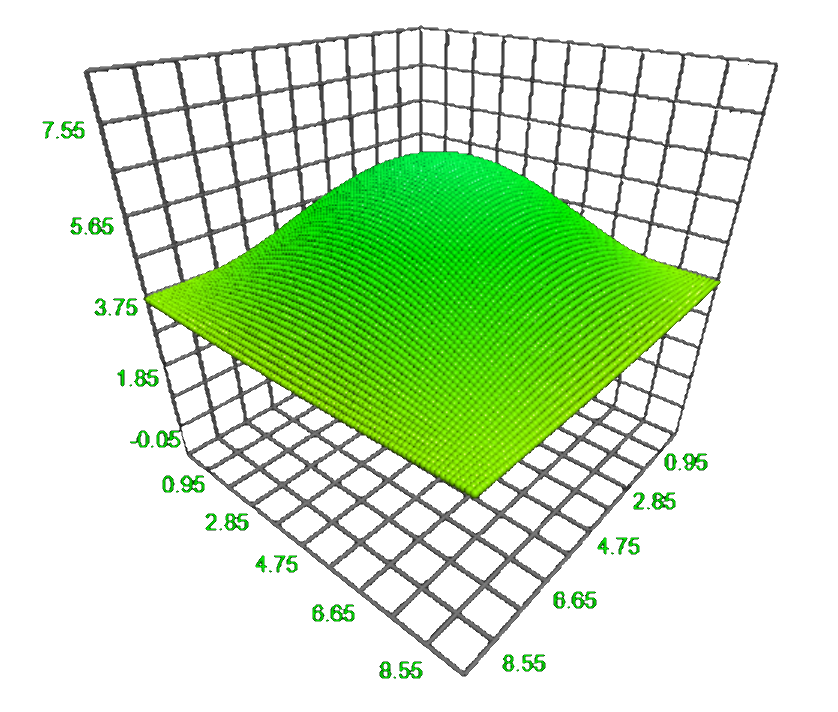
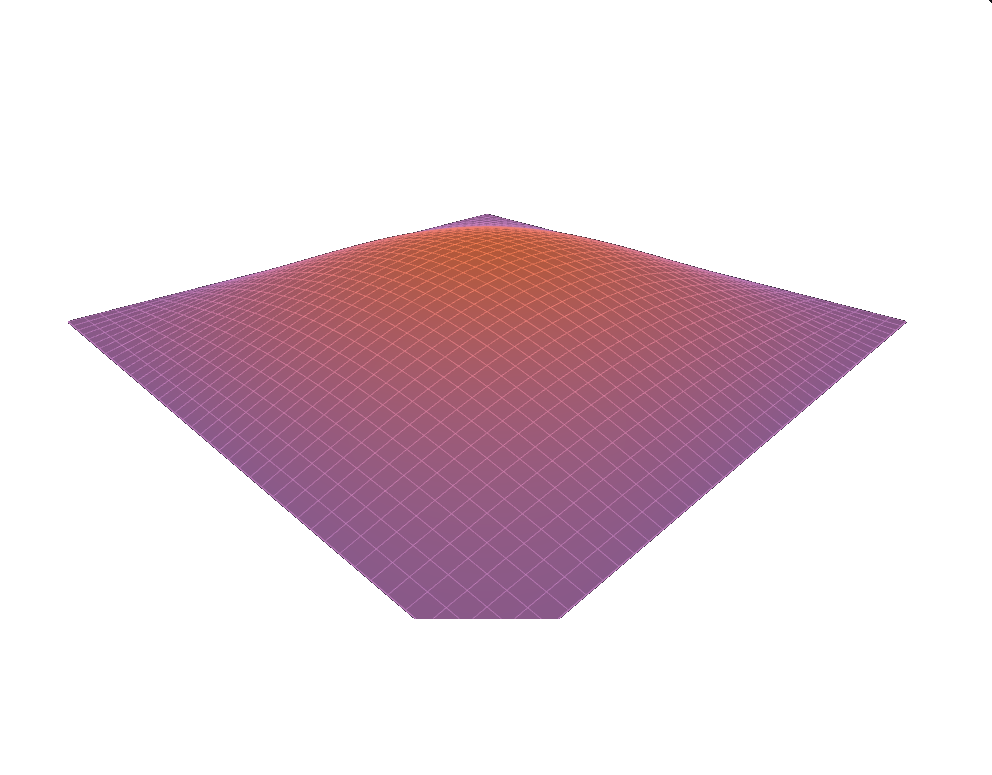
Update ♻

diff --git a/index.md b/index.md
@@ -1,3 +1,4 @@
+B
 <div style="display: flex;">
   <figure style="float: left; width: 25%; ">
     <img src="images/zeger-teaching-1.png" alt="Zeger" />
@@ -228,8 +229,8 @@ finest that music and poetry can deliver. &mdash;
     </div>
     <div class="double_image">
       <figure class="left_image">
-        <a href="https://www.hendrikse.name/helion/electromagnetism/antenna/">
-          <img alt="Waves emanating from an antenna" src="./images/thumbnails/antenna.png" title="Waves emanating from an antenna"/>
+        <a href="https://www.hendrikse.name/helion/electromagnetism/faradays_law/">
+          <img alt="Faradays law" src="./images/thumbnails/faradays_law.png" title="Faradays law"/>
         </a>
       </figure>
       <figure class="right_image">
